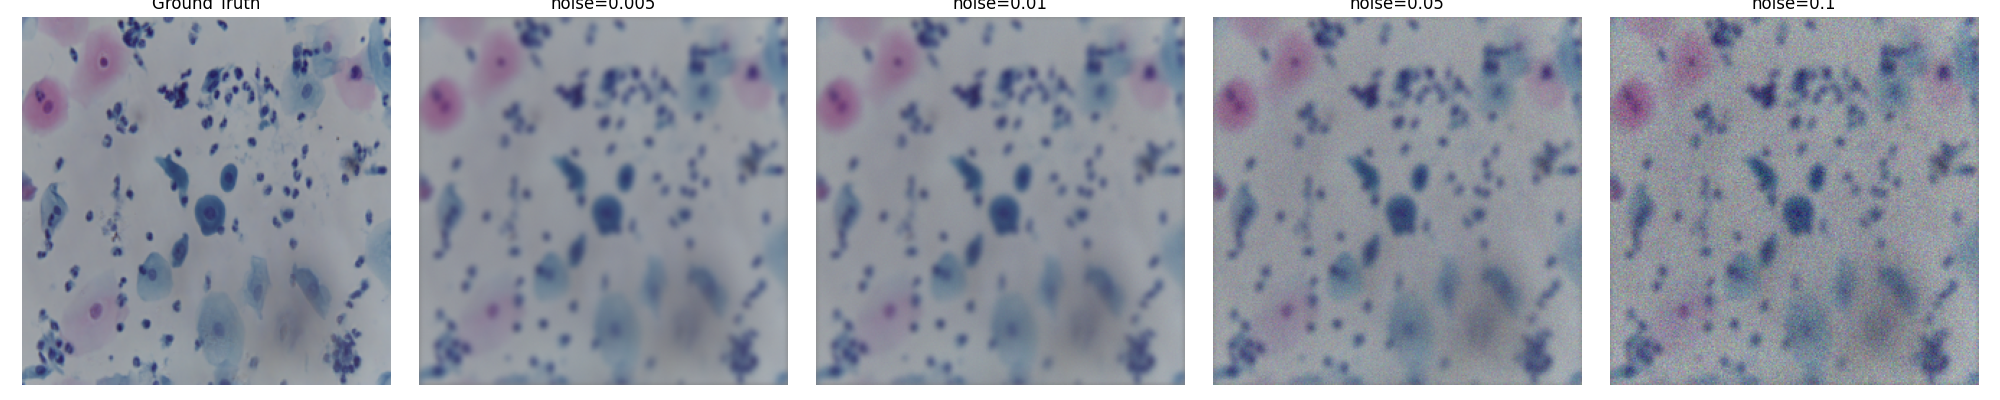
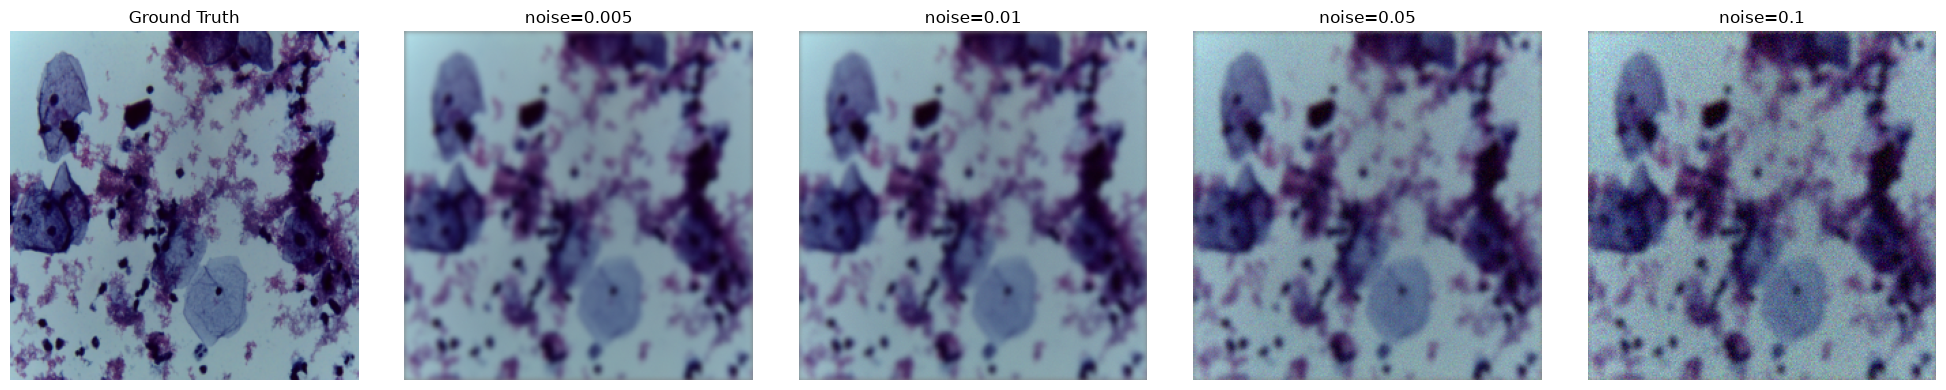
fix title img dataset post processing

diff --git a/scripts/preprocess.py b/scripts/preprocess.py
@@ -83,7 +83,13 @@ for i in tqdm(range(n_examples), desc="Esempi", unit="img"):
         axes[j + 1].axis("off")
 
     plt.tight_layout()
-    plt.savefig(examples_dir / f"example_{i:02d}.png", dpi=100)
+    plt.tight_layout()
+    plt.savefig(
+       examples_dir / f"example_{i:02d}.png",
+       dpi=100,
+       bbox_inches="tight",
+       pad_inches=0.1
+              )
     plt.close()
 
 print()
